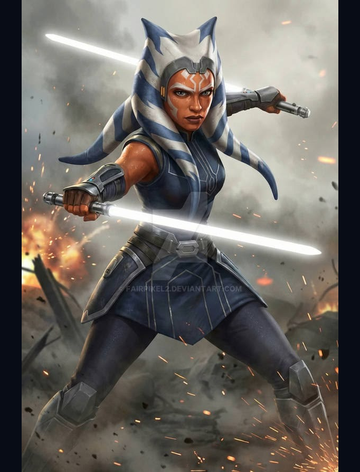
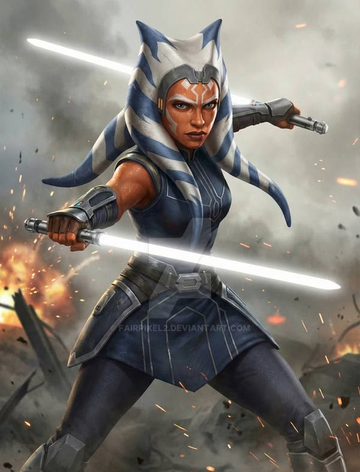
Smart-crop: no more letterbox — cut legs (or sides) instead
User direction: "for ahsoka the picture has some black around it…
i dont want any black to show so if thats the case always default
to cutting off the legs first."

Removed the letterbox fallback from smart_crop.py. When the source
isn't big enough on the axis the algorithm wants to grow:
- bbox narrower than target → couldn't widen enough → instead of
  pad-letterboxing the sides, shorten the bbox by cropping from the
  BOTTOM (cuts legs, preserves head + face + torso).
- bbox wider than target → couldn't grow taller enough → narrow the
  bbox horizontally with sides cropped equally (face stays centered).

The LETTERBOX_FILL constant is kept as a comment documenting the
prior pad color in case the fallback is ever reintroduced.

Re-processed Ahsoka 2 with the updated algorithm — the previous
black pad bars are gone; some leg / lower-saber pixels are now
trimmed instead.

Caches: _CARD_ART_VERSION 40→41, ui.js → v594.

diff --git a/index.html b/index.html
@@ -719,7 +719,7 @@
   <script src="https://unpkg.com/peerjs@1.5.4/dist/peerjs.min.js"></script>
   <script src="multiplayer.js?v=5"></script>
   <script src="card-art-manifest.js?v=19"></script>
-  <script src="ui.js?v=593"></script>
+  <script src="ui.js?v=594"></script>
   <script src="logger.js?v=5"></script>
   <!-- Always-on crash capture. Hooks window.onerror +
        unhandledrejection, surfaces a "Copy bug report" button when

diff --git a/ui.js b/ui.js
@@ -13,7 +13,7 @@ const UI = {
   // cached PNGs (which don't have built-in cache busters since they're
   // referenced via background-image url() and not the index.html
   // version-suffix system). Bump this every time you regen art.
-  _CARD_ART_VERSION: 40,
+  _CARD_ART_VERSION: 41,
 
   // =====================================================================
   // CARD ART VARIANTS

diff --git a/tools/smart_crop.py b/tools/smart_crop.py
@@ -36,9 +36,13 @@ import numpy as np
 import sys
 
 
-# Background color used when letterboxing (matches the in-game card
-# body so the padding bleeds into the card frame cleanly).
-LETTERBOX_FILL = (8, 12, 22)
+# NOTE: letterboxing was previously a fallback when the source image
+# couldn't be extended to target aspect without cropping into the
+# subject. User direction made that fallback obsolete — we now always
+# crop into the figure (preferring legs over head) instead of showing
+# pad bars. The constant is left here as documentation of the previous
+# pad color in case letterbox is ever reintroduced.
+# LETTERBOX_FILL = (8, 12, 22)
 
 # Target aspect — locked to 3:4 (360:472, the canonical portrait size).
 TARGET_W = 360
@@ -87,19 +91,40 @@ def smart_crop(src, dest, pad_pct=0.05, std_threshold=15):
     bw = x2 - x1
     bh = y2 - y1
 
-    # Extend bbox to target aspect WITHOUT touching the subject. If
-    # the bbox is narrower than target, grow horizontally; if taller,
-    # grow vertically with a 35/65 top/bottom split so heads stay
-    # well-clear of the top edge (chrome lives there).
+    # Extend bbox to target aspect. Two strategies depending on the
+    # bbox's current aspect vs target:
+    #
+    #   bbox NARROWER than target  → grow horizontally (pull in side
+    #                                background). If the source image
+    #                                isn't wide enough, fall back to
+    #                                cropping the bbox SHORTER from
+    #                                the bottom (cut legs).
+    #   bbox WIDER than target     → grow vertically with 35/65 top/
+    #                                bottom split (head-room first).
+    #                                If the source image isn't tall
+    #                                enough, fall back to narrowing
+    #                                the bbox (cut sides equally).
+    #
+    # User direction: "i dont want any black to show so if thats the
+    # case always default to cutting off the legs first" — the
+    # letterbox fallback is gone; we'd rather lose figure pixels
+    # (preferring legs over head / face) than show pad bars.
     cur_aspect = bw / bh
     if cur_aspect < TARGET_ASPECT:
         target_w = int(round(bh * TARGET_ASPECT))
         cx = (x1 + x2) // 2
         x1 = max(0, cx - target_w // 2)
-        x2 = x1 + target_w
-        if x2 > W:
-            x2 = W
-            x1 = max(0, x2 - target_w)
+        x2 = min(W, x1 + target_w)
+        x1 = max(0, x2 - target_w)  # re-anchor if clamped at right
+        if x2 - x1 < target_w:
+            # Source isn't wide enough — keep full width, shorten the
+            # bbox height from the BOTTOM (cuts legs, preserves head +
+            # face + torso).
+            new_bh = int(round((x2 - x1) / TARGET_ASPECT))
+            y2 = y1 + new_bh
+            # Clamp at image bottom if needed.
+            if y2 > H:
+                y2 = H
     else:
         target_h = int(round(bw / TARGET_ASPECT))
         extra = target_h - bh
@@ -107,34 +132,17 @@ def smart_crop(src, dest, pad_pct=0.05, std_threshold=15):
         grow_dn = extra - grow_up
         y1_new = max(0, y1 - grow_up)
         y2_new = min(H, y2 + grow_dn)
-        # If one edge clamped, push the remainder to the other side.
         if y2_new - y1_new < target_h:
-            if y1_new == 0:
-                y2_new = min(H, y1_new + target_h)
-            elif y2_new == H:
-                y1_new = max(0, y2_new - target_h)
+            # Couldn't grow vertically enough — narrow the bbox
+            # horizontally (cut sides equally so face stays centered).
+            new_bw = int(round((y2_new - y1_new) * TARGET_ASPECT))
+            cx = (x1 + x2) // 2
+            x1 = max(0, cx - new_bw // 2)
+            x2 = min(W, x1 + new_bw)
+            x1 = max(0, x2 - new_bw)
         y1, y2 = y1_new, y2_new
 
-    bw = x2 - x1
-    bh = y2 - y1
     cropped = img.crop((x1, y1, x2, y2))
-
-    # If the source wasn't wide / tall enough to reach target aspect,
-    # letterbox with the card-body fill so we never crop into the
-    # subject just to hit aspect.
-    cur_aspect = bw / bh
-    if abs(cur_aspect - TARGET_ASPECT) > 0.01:
-        if cur_aspect < TARGET_ASPECT:
-            new_w = int(round(bh * TARGET_ASPECT))
-            pad_l = (new_w - bw) // 2
-            canvas = Image.new('RGB', (new_w, bh), LETTERBOX_FILL)
-            canvas.paste(cropped, (pad_l, 0))
-        else:
-            new_h = int(round(bw / TARGET_ASPECT))
-            pad_t = (new_h - bh) // 2
-            canvas = Image.new('RGB', (bw, new_h), LETTERBOX_FILL)
-            canvas.paste(cropped, (0, pad_t))
-        cropped = canvas
 
     out = cropped.resize((TARGET_W, TARGET_H), Image.LANCZOS)
     out.save(dest, optimize=True)
